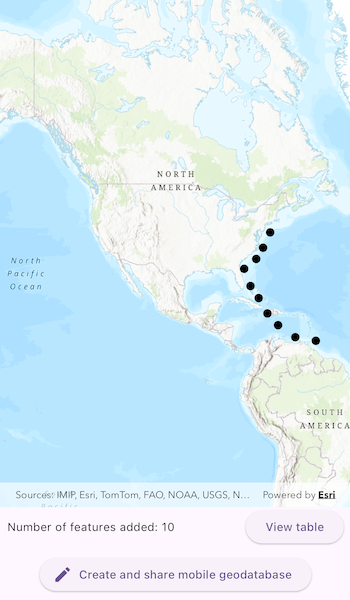
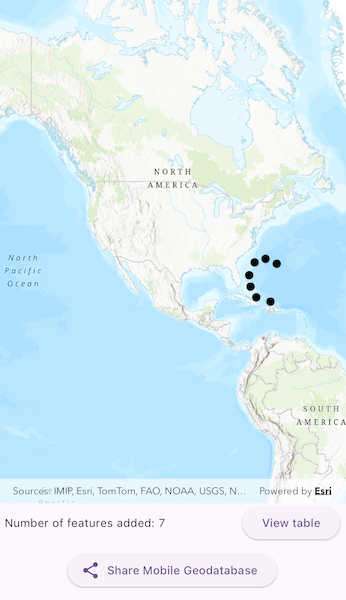
revise the user experience

diff --git a/lib/samples/create_mobile_geodatabase/create_mobile_geodatabase_sample.dart b/lib/samples/create_mobile_geodatabase/create_mobile_geodatabase_sample.dart
@@ -82,7 +82,7 @@ class _CreateMobileGeodatabaseSampleState
                         'Number of features added: $_featureCount',
                       ),
                       ElevatedButton(
-                        onPressed: _displayTable,
+                        onPressed: _featureCount > 0 ? _displayTable : null,
                         child: const Text(
                           'View table',
                         ),
@@ -99,12 +99,12 @@ class _CreateMobileGeodatabaseSampleState
                     10,
                   ),
                   child: ElevatedButton.icon(
-                    onPressed: _shareGeodatabaseUri,
+                    onPressed: _featureCount > 0 ? _shareGeodatabaseUri : null,
                     icon: const Icon(
-                      Icons.edit,
+                      Icons.share,
                     ),
                     label: const Text(
-                      'Create and share mobile geodatabase',
+                      'Share Mobile Geodatabase',
                     ),
                   ),
                 ),
@@ -326,19 +326,10 @@ class _CreateMobileGeodatabaseSampleState
     _geodatabase?.close();
 
     // Open the platform share sheet and share the mobile geodatabase file URI.
-    final shareResult = await Share.share(
+    await Share.share(
       subject: 'Sharing the geodatabase',
       _geodatabase!.fileUri.path,
     );
-
-    // Display a dialog based on the share result.
-    if (shareResult.status == ShareResultStatus.success) {
-      _showDialog('Success',
-          'The geodatabase has been successfully shared, and a new one has been created.');
-    } else {
-      _showDialog('Info',
-          'The geodatabase has not been shared, and a new one has been created.');
-    }
 
     // Create a new mobile geodatabase and feature table to start again.
     _setupGeodatabase();

diff --git a/lib/samples/create_mobile_geodatabase/README.md b/lib/samples/create_mobile_geodatabase/README.md
@@ -12,7 +12,7 @@ For example, a user would like to track the location of their device at various 
 
 ## How to use the sample
 
-Tap on the map to add a feature symbolizing the user's location. Tap "View table" to view the contents of the geodatabase feature table. Once you have added the location points to the map, click on "Create and share mobile geodatabase" to retrieve the `.geodatabase` file which can then be imported into ArcGIS Pro or opened in an ArcGIS Maps SDK application.
+Tap on the map to add a feature symbolizing the user's location. Tap "View table" to view the contents of the geodatabase feature table. Once you have added the location points to the map, Tap on "Share Mobile Geodatabase" to retrieve the `.geodatabase` file which can then be imported into ArcGIS Pro or opened in an ArcGIS Maps SDK application.
 
 ## How it works
 
